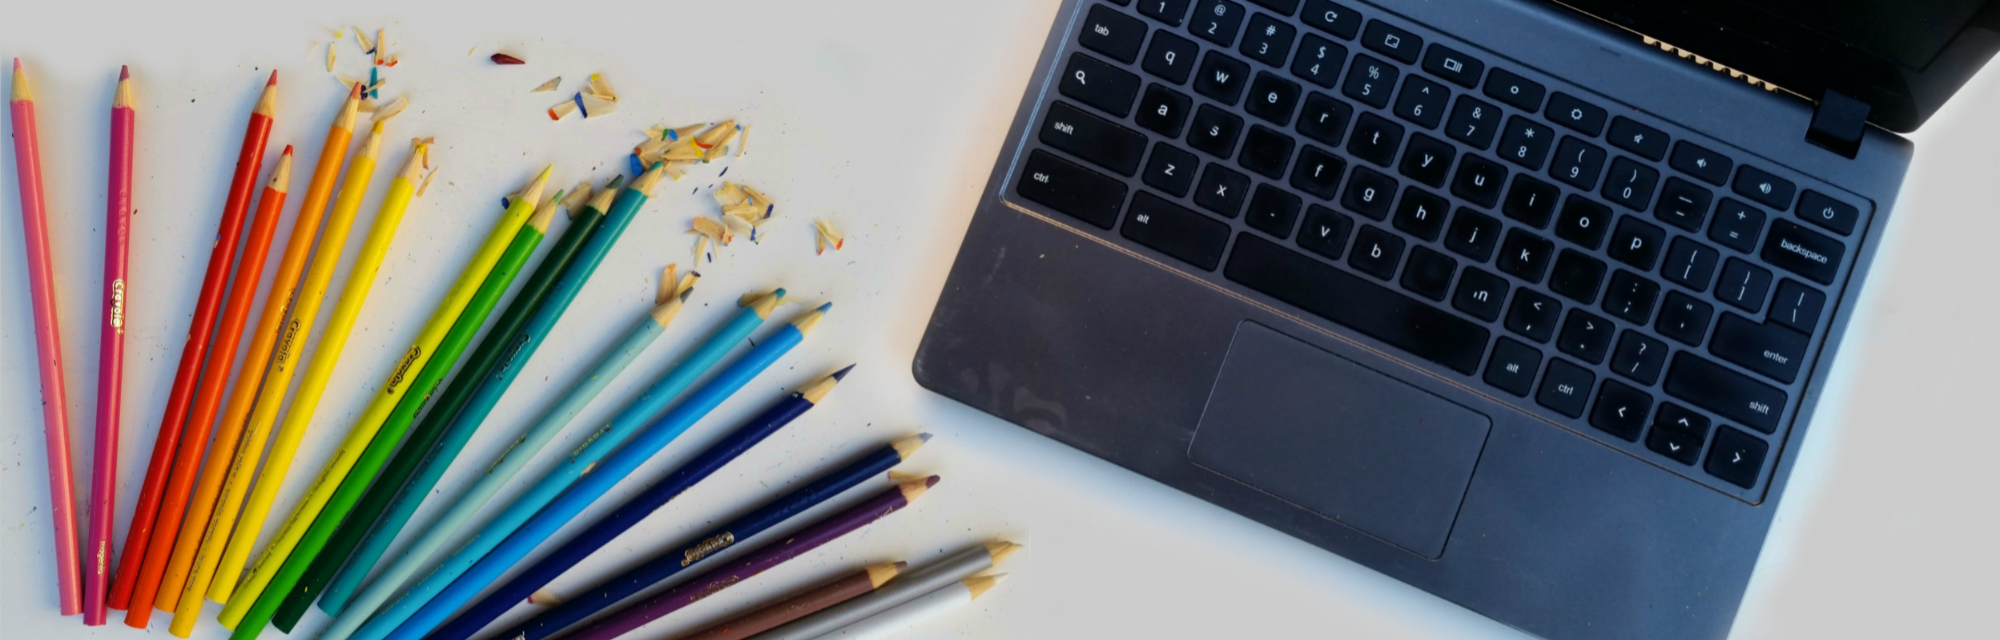
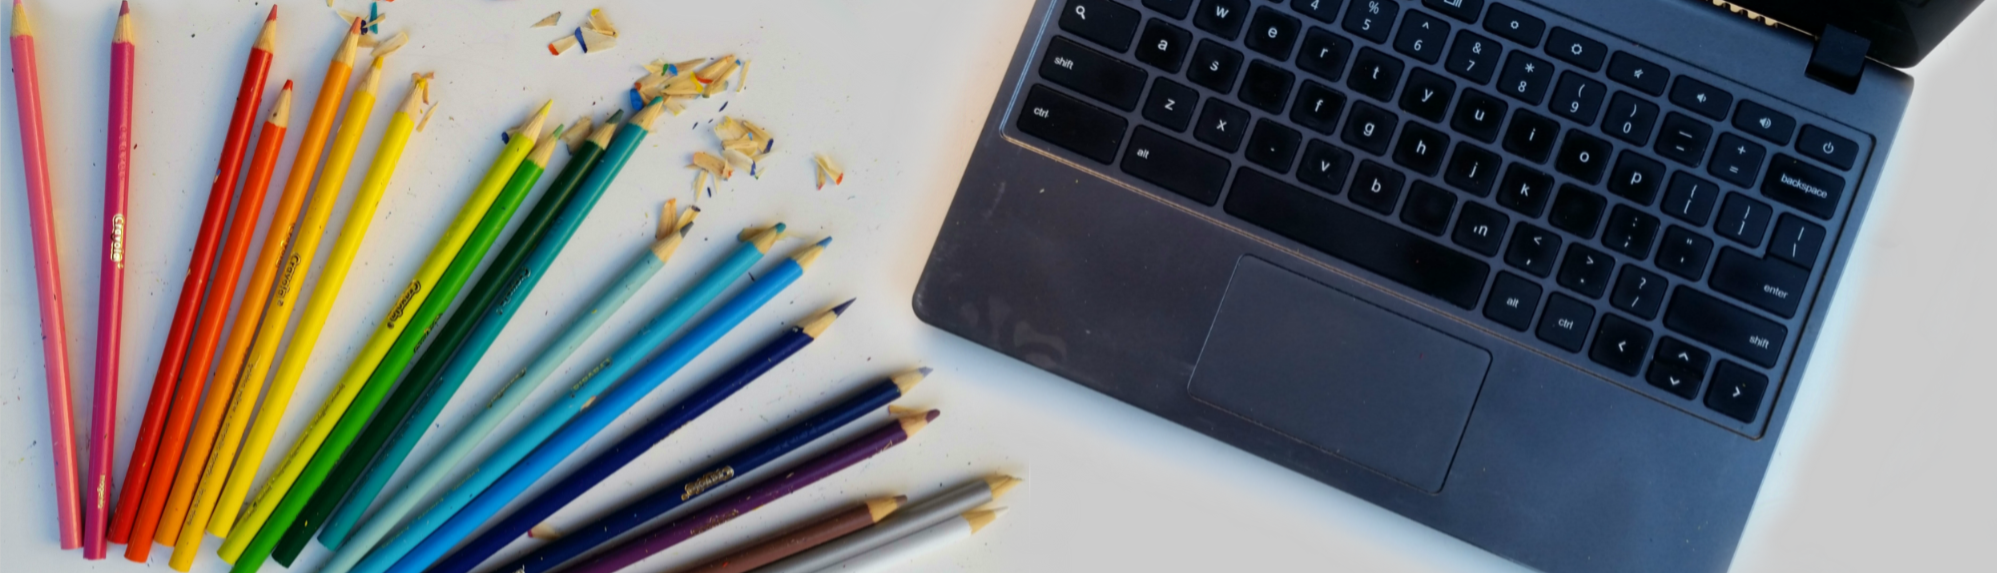
updated site files

diff --git a/_site/css/main.css b/_site/css/main.css
@@ -1,1 +1,1 @@
-@import url(vendor/bootstrap.min.css);body{overflow-x:hidden;font-family:'Roboto Slab', 'Helvetica Neue', Helvetica, Arial, sans-serif;color:#333;webkit-tap-highlight-color:#fed136}.bg-light-gray{background-color:#f7f7f7}.bg-darkest-gray{background-color:#222}.bg-primary{background-color:#fed136}.text-muted{color:#777}.text-primary{color:#fed136}p{font-size:14px;line-height:1.75}p.large{font-size:16px}a,a:hover,a:focus,a:active,a.active{outline:0}a{color:#fed136}a:hover,a:focus,a:active,a.active{color:#fec503}h1,h2,h3,h4,h5,h6{text-transform:uppercase;font-family:Montserrat,"Helvetica Neue",Helvetica,Arial,sans-serif;font-weight:700}.default-content{padding:5% 5%}.img-centered{margin:0 auto}::-moz-selection{text-shadow:none;background:#fed136}::selection{text-shadow:none;background:#fed136}img::selection{background:0 0}img::-moz-selection{background:0 0}.btn-primary{border-color:#fed136;text-transform:uppercase;font-family:Montserrat,"Helvetica Neue",Helvetica,Arial,sans-serif;font-weight:700;color:#fff;background-color:#fed136}.btn-primary:hover,.btn-primary:focus,.btn-primary:active,.btn-primary.active,.open .dropdown-toggle.btn-primary{border-color:#fed136;color:#fff;background-color:#fec503}.btn-primary:active,.btn-primary.active,.open .dropdown-toggle.btn-primary{background-image:none}.btn-primary.disabled,.btn-primary[disabled],fieldset[disabled] .btn-primary,.btn-primary.disabled:hover,.btn-primary[disabled]:hover,fieldset[disabled] .btn-primary:hover,.btn-primary.disabled:focus,.btn-primary[disabled]:focus,fieldset[disabled] .btn-primary:focus,.btn-primary.disabled:active,.btn-primary[disabled]:active,fieldset[disabled] .btn-primary:active,.btn-primary.disabled.active,.btn-primary[disabled].active,fieldset[disabled] .btn-primary.active{border-color:#fed136;background-color:#fed136}.btn-primary .badge{color:#fed136;background-color:#fff}.btn-xl{padding:20px 40px;border-color:#fed136;border-radius:3px;text-transform:uppercase;font-family:Montserrat,"Helvetica Neue",Helvetica,Arial,sans-serif;font-size:18px;font-weight:700;color:#fff;background-color:#fed136}.btn-xl:hover,.btn-xl:focus,.btn-xl:active,.btn-xl.active,.open .dropdown-toggle.btn-xl{border-color:#fed136;color:#fff;background-color:#fec503}.btn-xl:active,.btn-xl.active,.open .dropdown-toggle.btn-xl{background-image:none}.btn-xl.disabled,.btn-xl[disabled],fieldset[disabled] .btn-xl,.btn-xl.disabled:hover,.btn-xl[disabled]:hover,fieldset[disabled] .btn-xl:hover,.btn-xl.disabled:focus,.btn-xl[disabled]:focus,fieldset[disabled] .btn-xl:focus,.btn-xl.disabled:active,.btn-xl[disabled]:active,fieldset[disabled] .btn-xl:active,.btn-xl.disabled.active,.btn-xl[disabled].active,fieldset[disabled] .btn-xl.active{border-color:#fed136;background-color:#fed136}.btn-xl .badge{color:#fed136;background-color:#fff}.navbar-default{border-color:transparent;background-color:#222}.navbar-default .navbar-brand{font-family:"Kaushan Script","Helvetica Neue",Helvetica,Arial,cursive;color:#fff}.navbar-default .navbar-brand:hover,.navbar-default .navbar-brand:focus,.navbar-default .navbar-brand:active,.navbar-default .navbar-brand.active{color:#fec503}.navbar-default .navbar-collapse{border-color:rgba(255,255,255,0.02)}.navbar-default .navbar-toggle{border-color:#fed136;background-color:#fed136}.navbar-default .navbar-toggle .icon-bar{background-color:#fff}.navbar-default .navbar-toggle:hover,.navbar-default .navbar-toggle:focus{background-color:#fed136}.navbar-default .nav li a{text-transform:uppercase;font-family:Montserrat,"Helvetica Neue",Helvetica,Arial,sans-serif;font-weight:400;letter-spacing:1px;color:#fff;-webkit-transition:all ease .35s;-moz-transition:all ease .35s;transition:all ease .35s}.navbar-default .nav li a:hover,.navbar-default .nav li a:focus{outline:0;color:#fed136}.navbar-default .navbar-nav>.active>a{border-radius:0;color:#fff;background-color:#fed136}.navbar-default .navbar-nav>.active>a:hover,.navbar-default .navbar-nav>.active>a:focus{color:#fff;background-color:#fec503}@media (min-width: 768px){.navbar-default{padding:25px 0;border:0;background-color:transparent;-webkit-transition:padding .3s;-moz-transition:padding .3s;transition:padding .3s}.navbar-default .navbar-brand{font-size:2em;-webkit-transition:all .3s;-moz-transition:all .3s;transition:all .3s}.navbar-default .navbar-nav>.active>a{border-radius:3px}.navbar-default.navbar-shrink{padding:10px 0;background-color:#222}.navbar-default.navbar-shrink .navbar-brand{font-size:1.5em}}section{padding:4% 0}section .section-heading{padding:0px;font-size:4rem}section h3.section-subheading{margin-bottom:75px;text-transform:none;font-family:"Droid Serif","Helvetica Neue",Helvetica,Arial,sans-serif;font-size:16px;font-style:italic;font-weight:400}@media (min-width: 768px){section{padding:5% 0}section .section-heading{font-size:3rem}}.service-heading{margin:15px 0;text-transform:none}.regular-page .navbar-default .navbar-brand:hover,.regular-page .navbar-default .navbar-brand:focus,.regular-page .navbar-default .navbar-brand:active,.regular-page .navbar-default .navbar-brand.active{border-radius:5px;color:#fff;background-color:#fed136}.regular-page .navbar-default .nav li a:hover,.regular-page .navbar-default .nav li a:focus{border-radius:3px;color:#fff;background-color:#fed136}@media (min-width: 768px){.regular-page .navbar-default{padding:15px 0;background:#222}}.post-main-header{background-image:url("/img/front/pencils-laptop-narrow-sm.png");background-repeat:no-repeat;background-position:center center;background-attachment:scroll;-webkit-background-size:100% auto;-moz-background-size:100% auto;background-size:100% auto;-o-background-size:100% auto;border-radius:5px;padding:1%;margin:0px 5%;margin-top:60px;text-align:center;color:white}.post .section-heading{text-align:center;font-size:3.5rem;padding:10px}.post .meta{color:#cd9f01;font-size:2.5rem;letter-spacing:0.1em;margin-bottom:20px;text-transform:uppercase}.post .content{font-family:"Droid Serif","Helvetica Neue",Helvetica,Arial,sans-serif;color:#333;font-size:3rem;padding:5%}.post p{font-size:2rem}.post a{color:#fed136}.post a:hover{text-decoration:none;color:#cd9f01}@media (min-width: 900px){.post header{background-image:url("/img/posts/post-header-sm.png");background-position:center center;border-radius:5px;margin:0 10%;margin-top:60px;margin-bottom:1%}.post .section-heading{padding-top:10px}.post .meta{padding-bottom:20px}.post .content{padding:0px 10%}.post p{font-size:1.8rem;font-weight:normal}}.header-front{background-image:url("/img/front/pencils-laptop-narrow-sm.png");background-repeat:no-repeat;background-position:center top;background-attachment:scroll;-webkit-background-size:100% auto;-moz-background-size:100% auto;background-size:100% auto;-o-background-size:100% auto;margin-top:60px}.header-front:before{content:'';display:block;padding-top:75%}.header-front .header-padding{position:absolute;top:0;left:0;bottom:0;right:0}@media (min-width: 768px){.header-front{background-image:url("/img/front/pencils-laptop-thinner.png");margin-top:0px}.header-front:before{padding-top:32%}}#about{padding-top:3%}#about .section-heading{font-family:"Kaushan Script","Helvetica Neue",Helvetica,Arial,cursive;font-size:4rem}#about .main-text{padding-top:2%}#about .main-text p{font-family:serif;font-size:2.4rem;line-height:1.2}@media (min-width: 768px){#about{padding-top:60px}}.icon-aqua{color:#05b9d2}.tech-icon:hover .icon-aqua{color:#fed136}#portfolio .portfolio-item{right:0;margin:0 0 15px}#portfolio .portfolio-item .portfolio-link{display:block;position:relative;margin:0 auto;max-width:400px}#portfolio .portfolio-item .portfolio-link .portfolio-hover{position:absolute;width:100%;height:100%;opacity:0;-webkit-transition:all ease .5s;-moz-transition:all ease .5s;transition:all ease .5s;background:rgba(254,209,54,0.9)}#portfolio .portfolio-item .portfolio-link .portfolio-hover:hover{opacity:1}#portfolio .portfolio-item .portfolio-link .portfolio-hover .portfolio-hover-content{position:absolute;top:50%;width:100%;height:20px;margin-top:-12px;text-align:center;font-size:20px;color:#fff}#portfolio .portfolio-item .portfolio-link .portfolio-hover .portfolio-hover-content i{margin-top:-12px}#portfolio .portfolio-item .portfolio-link .portfolio-hover .portfolio-hover-content h3,#portfolio .portfolio-item .portfolio-link .portfolio-hover .portfolio-hover-content h4{margin:0}#portfolio .portfolio-item .portfolio-caption{margin:0 auto;padding:25px;max-width:400px;text-align:center;background-color:#fff}#portfolio .portfolio-item .portfolio-caption h4{margin:0;text-transform:none}#portfolio .portfolio-item .portfolio-caption p{margin:0;font-family:"Droid Serif","Helvetica Neue",Helvetica,Arial,sans-serif;font-size:16px;font-style:italic}#portfolio *{z-index:2}@media (min-width: 767px){#portfolio .portfolio-item{margin:0 0 30px}}.portfolio-modal{position:absolulte;top:15%;left:12%;right:12%;height:75%;width:76%;padding:5%;border-radius:5px;background-clip:border-box;-webkit-box-shadow:none;box-shadow:none;background-color:rgba(255,255,255,0.8)}.portfolio-modal .main-img{border-radius:5px}.portfolio-modal h2{font-size:3rem;text-align:center;margin-bottom:15px}.portfolio-modal h2 a:hover{text-decoration:none;color:#cd9f01;cursor:pointer}.portfolio-modal .project-description{text-align:center;font-family:"Droid Serif","Helvetica Neue",Helvetica,Arial,sans-serif;font-size:2rem;font-style:italic;margin:20px 0 30px}.portfolio-modal .project-details{text-align:center;margin-top:3%;margin-bottom:0%}.portfolio-modal .project-detail-label{font-size:1.7rem;padding:1%}.portfolio-modal .project-detail-item{font-weight:bold;font-size:2rem;padding:1%}.portfolio-modal .btn{align:right;margin-top:2%;margin-bottom:0%}.portfolio-modal .close-modal{color:#fed136;font-family:sans-serif;font-size:4rem;position:absolute;top:3%;right:3%;cursor:pointer}.portfolio-modal .close-modal:hover{color:#cd9f01}::-webkit-scrollbar{display:none}section#blog{padding:5%;padding-top:2%}.posts .section-heading{font-size:4rem}.posts-header{text-align:center;color:#fed136}.posts h2{padding:10px;text-align:center}.posts a:hover{text-decoration:none;color:#cd9f01}.posts .post-teaser{padding:15px 20%;width:100%;margin:0;display:inline-block;background-size:cover}.posts .post-teaser p a:hover{text-decoration:none;color:#cd9f01}.posts .excerpt{margin-top:1em}.posts .meta{color:#cd9f01;font-size:0.9em;letter-spacing:0.1em;margin:0;text-transform:uppercase}@media (max-width: 1000px){.posts .post-teaser{padding:2% 13%}}#contact{background-color:#222;background-image:url("/img/front/map.png");background-position:center;background-repeat:no-repeat;padding:5%}#contact .section-heading{color:#fff;font-size:4rem}#contact .contact-text{color:#fff;font-size:1.7rem;padding-bottom:2%}#contact .social{padding-bottom:5%}#contact .social-buttons-lg a{color:#fff;font-size:20px;-webkit-transition:all .3s;-moz-transition:all .3s;transition:all .3s;padding:10px;margin-bottom:20px}#contact .social-buttons-lg a:hover,#contact .social-buttons-lg a:focus,#contact .social-buttons-lg a:active{color:#fed136}footer{padding:25px 0;text-align:center}footer span.copyright{text-transform:uppercase;text-transform:none;font-family:Montserrat,"Helvetica Neue",Helvetica,Arial,sans-serif;line-height:40px}footer ul.quicklinks{margin-bottom:0;text-transform:uppercase;text-transform:none;font-family:Montserrat,"Helvetica Neue",Helvetica,Arial,sans-serif;line-height:40px}.social-buttons{margin-bottom:0}.social-buttons a{display:block;width:40px;height:40px;border-radius:100%;font-size:20px;line-height:40px;outline:0;color:#fff;background-color:#222;-webkit-transition:all .3s;-moz-transition:all .3s;transition:all .3s}.social-buttons a:hover,.social-buttons a:focus,.social-buttons a:active{background-color:#fed136}.btn:focus,.btn:active,.btn.active,.btn:active:focus{outline:0}
+@import url(vendor/bootstrap.min.css);body{overflow-x:hidden;font-family:'Roboto Slab', 'Helvetica Neue', Helvetica, Arial, sans-serif;color:#333;webkit-tap-highlight-color:#fed136}.bg-light-gray{background-color:#f7f7f7}.bg-darkest-gray{background-color:#222}.bg-primary{background-color:#fed136}.text-muted{color:#777}.text-primary{color:#fed136}p{font-size:14px;line-height:1.75}p.large{font-size:16px}a,a:hover,a:focus,a:active,a.active{outline:0}a{color:#fed136}a:hover,a:focus,a:active,a.active{color:#fec503}h1,h2,h3,h4,h5,h6{text-transform:uppercase;font-family:Montserrat,"Helvetica Neue",Helvetica,Arial,sans-serif;font-weight:700}.default-content{padding:5% 5%}.img-centered{margin:0 auto}::-moz-selection{text-shadow:none;background:#fed136}::selection{text-shadow:none;background:#fed136}img::selection{background:0 0}img::-moz-selection{background:0 0}.btn-primary{border-color:#fed136;text-transform:uppercase;font-family:Montserrat,"Helvetica Neue",Helvetica,Arial,sans-serif;font-weight:700;color:#fff;background-color:#fed136}.btn-primary:hover,.btn-primary:focus,.btn-primary:active,.btn-primary.active,.open .dropdown-toggle.btn-primary{border-color:#fed136;color:#fff;background-color:#fec503}.btn-primary:active,.btn-primary.active,.open .dropdown-toggle.btn-primary{background-image:none}.btn-primary.disabled,.btn-primary[disabled],fieldset[disabled] .btn-primary,.btn-primary.disabled:hover,.btn-primary[disabled]:hover,fieldset[disabled] .btn-primary:hover,.btn-primary.disabled:focus,.btn-primary[disabled]:focus,fieldset[disabled] .btn-primary:focus,.btn-primary.disabled:active,.btn-primary[disabled]:active,fieldset[disabled] .btn-primary:active,.btn-primary.disabled.active,.btn-primary[disabled].active,fieldset[disabled] .btn-primary.active{border-color:#fed136;background-color:#fed136}.btn-primary .badge{color:#fed136;background-color:#fff}.btn-xl{padding:20px 40px;border-color:#fed136;border-radius:3px;text-transform:uppercase;font-family:Montserrat,"Helvetica Neue",Helvetica,Arial,sans-serif;font-size:18px;font-weight:700;color:#fff;background-color:#fed136}.btn-xl:hover,.btn-xl:focus,.btn-xl:active,.btn-xl.active,.open .dropdown-toggle.btn-xl{border-color:#fed136;color:#fff;background-color:#fec503}.btn-xl:active,.btn-xl.active,.open .dropdown-toggle.btn-xl{background-image:none}.btn-xl.disabled,.btn-xl[disabled],fieldset[disabled] .btn-xl,.btn-xl.disabled:hover,.btn-xl[disabled]:hover,fieldset[disabled] .btn-xl:hover,.btn-xl.disabled:focus,.btn-xl[disabled]:focus,fieldset[disabled] .btn-xl:focus,.btn-xl.disabled:active,.btn-xl[disabled]:active,fieldset[disabled] .btn-xl:active,.btn-xl.disabled.active,.btn-xl[disabled].active,fieldset[disabled] .btn-xl.active{border-color:#fed136;background-color:#fed136}.btn-xl .badge{color:#fed136;background-color:#fff}.navbar-default{border-color:transparent;background-color:#222}.navbar-default .navbar-brand{font-family:"Kaushan Script","Helvetica Neue",Helvetica,Arial,cursive;color:#fff}.navbar-default .navbar-brand:hover,.navbar-default .navbar-brand:focus,.navbar-default .navbar-brand:active,.navbar-default .navbar-brand.active{color:#fec503}.navbar-default .navbar-collapse{border-color:rgba(255,255,255,0.02)}.navbar-default .navbar-toggle{border-color:#fed136;background-color:#fed136}.navbar-default .navbar-toggle .icon-bar{background-color:#fff}.navbar-default .navbar-toggle:hover,.navbar-default .navbar-toggle:focus{background-color:#fed136}.navbar-default .nav li a{text-transform:uppercase;font-family:Montserrat,"Helvetica Neue",Helvetica,Arial,sans-serif;font-weight:400;letter-spacing:1px;color:#fff;-webkit-transition:all ease .35s;-moz-transition:all ease .35s;transition:all ease .35s}.navbar-default .nav li a:hover,.navbar-default .nav li a:focus{outline:0;color:#fed136}.navbar-default .navbar-nav>.active>a{border-radius:0;color:#fff;background-color:#fed136}.navbar-default .navbar-nav>.active>a:hover,.navbar-default .navbar-nav>.active>a:focus{color:#fff;background-color:#fec503}@media (min-width: 768px){.navbar-default{padding:25px 0;border:0;background-color:transparent;-webkit-transition:padding .3s;-moz-transition:padding .3s;transition:padding .3s}.navbar-default .navbar-brand{font-size:2em;-webkit-transition:all .3s;-moz-transition:all .3s;transition:all .3s}.navbar-default .navbar-nav>.active>a{border-radius:3px}.navbar-default.navbar-shrink{padding:10px 0;background-color:#222}.navbar-default.navbar-shrink .navbar-brand{font-size:1.5em}}section{padding:4% 0}section .section-heading{padding:0px;font-size:4rem}section h3.section-subheading{margin-bottom:75px;text-transform:none;font-family:"Droid Serif","Helvetica Neue",Helvetica,Arial,sans-serif;font-size:16px;font-style:italic;font-weight:400}@media (min-width: 768px){section{padding:5% 0}section .section-heading{font-size:3rem}}.service-heading{margin:15px 0;text-transform:none}.regular-page .navbar-default .navbar-brand:hover,.regular-page .navbar-default .navbar-brand:focus,.regular-page .navbar-default .navbar-brand:active,.regular-page .navbar-default .navbar-brand.active{border-radius:5px;color:#fff;background-color:#fed136}.regular-page .navbar-default .nav li a:hover,.regular-page .navbar-default .nav li a:focus{border-radius:3px;color:#fff;background-color:#fed136}@media (min-width: 768px){.regular-page .navbar-default{padding:15px 0;background:#222}}.post-main-header{background-image:url("/img/front/pencils-laptop-narrow-sm.png");background-repeat:no-repeat;background-position:center center;background-attachment:scroll;-webkit-background-size:100% auto;-moz-background-size:100% auto;background-size:100% auto;-o-background-size:100% auto;border-radius:5px;padding:1%;margin:0px 5%;margin-top:60px;text-align:center;color:white}.post .section-heading{text-align:center;font-size:3.5rem;padding:10px}.post .meta{color:#cd9f01;font-size:2.5rem;letter-spacing:0.1em;margin-bottom:20px;text-transform:uppercase}.post .content{font-family:"Droid Serif","Helvetica Neue",Helvetica,Arial,sans-serif;color:#333;font-size:3rem;padding:5%}.post p{font-size:2rem}.post a{color:#fed136}.post a:hover{text-decoration:none;color:#cd9f01}@media (min-width: 900px){.post header{background-image:url("/img/posts/post-header-sm.png");background-position:center center;border-radius:5px;margin:0 10%;margin-top:60px;margin-bottom:1%}.post .section-heading{padding-top:10px}.post .meta{padding-bottom:20px}.post .content{padding:0px 10%}.post p{font-size:1.8rem;font-weight:normal}}.header-front{background-image:url("/img/front/pencils-laptop-narrow-sm.png");background-repeat:no-repeat;background-position:center top;background-attachment:scroll;-webkit-background-size:100% auto;-moz-background-size:100% auto;background-size:100% auto;-o-background-size:100% auto;margin-top:60px}.header-front:before{content:'';display:block;padding-top:75%}.header-front .header-padding{position:absolute;top:0;left:0;bottom:0;right:0}@media (min-width: 768px){.header-front{background-image:url("/img/front/pencils-laptop-thin.png");margin-top:0px}.header-front:before{padding-top:32%}}#about{padding-top:3%}#about .section-heading{font-family:"Kaushan Script","Helvetica Neue",Helvetica,Arial,cursive;font-size:4rem}#about .main-text{padding-top:2%}#about .main-text p{font-family:serif;font-size:2.4rem;line-height:1.2}@media (min-width: 768px){#about{padding-top:50px}}.icon-aqua{color:#05b9d2}.tech-icon:hover .icon-aqua{color:#fed136}#portfolio .portfolio-item{right:0;margin:0 0 15px}#portfolio .portfolio-item .portfolio-link{display:block;position:relative;margin:0 auto;max-width:400px}#portfolio .portfolio-item .portfolio-link .portfolio-hover{position:absolute;width:100%;height:100%;opacity:0;-webkit-transition:all ease .5s;-moz-transition:all ease .5s;transition:all ease .5s;background:rgba(254,209,54,0.9)}#portfolio .portfolio-item .portfolio-link .portfolio-hover:hover{opacity:1}#portfolio .portfolio-item .portfolio-link .portfolio-hover .portfolio-hover-content{position:absolute;top:50%;width:100%;height:20px;margin-top:-12px;text-align:center;font-size:20px;color:#fff}#portfolio .portfolio-item .portfolio-link .portfolio-hover .portfolio-hover-content i{margin-top:-12px}#portfolio .portfolio-item .portfolio-link .portfolio-hover .portfolio-hover-content h3,#portfolio .portfolio-item .portfolio-link .portfolio-hover .portfolio-hover-content h4{margin:0}#portfolio .portfolio-item .portfolio-caption{margin:0 auto;padding:25px;max-width:400px;text-align:center;background-color:#fff}#portfolio .portfolio-item .portfolio-caption h4{margin:0;text-transform:none}#portfolio .portfolio-item .portfolio-caption p{margin:0;font-family:"Droid Serif","Helvetica Neue",Helvetica,Arial,sans-serif;font-size:16px;font-style:italic}#portfolio *{z-index:2}@media (min-width: 767px){#portfolio .portfolio-item{margin:0 0 30px}}.portfolio-modal{position:absolulte;top:15%;left:12%;right:12%;height:75%;width:76%;padding:5%;border-radius:5px;background-clip:border-box;-webkit-box-shadow:none;box-shadow:none;background-color:rgba(255,255,255,0.8)}.portfolio-modal .main-img{border-radius:5px}.portfolio-modal h2{font-size:3rem;text-align:center;margin-bottom:15px}.portfolio-modal h2 a:hover{text-decoration:none;color:#cd9f01;cursor:pointer}.portfolio-modal .project-description{text-align:center;font-family:"Droid Serif","Helvetica Neue",Helvetica,Arial,sans-serif;font-size:2rem;font-style:italic;margin:20px 0 30px}.portfolio-modal .project-details{text-align:center;margin-top:3%;margin-bottom:0%}.portfolio-modal .project-detail-label{font-size:1.7rem;padding:1%}.portfolio-modal .project-detail-item{font-weight:bold;font-size:2rem;padding:1%}.portfolio-modal .btn{align:right;margin-top:2%;margin-bottom:0%}.portfolio-modal .close-modal{color:#fed136;font-family:sans-serif;font-size:4rem;position:absolute;top:3%;right:3%;cursor:pointer}.portfolio-modal .close-modal:hover{color:#cd9f01}::-webkit-scrollbar{display:none}section#blog{padding:5%;padding-top:2%}.posts .section-heading{font-size:4rem;text-align:center}.posts a:hover{text-decoration:none;color:#cd9f01}.posts .post-teaser{display:inline-block;width:100%;padding:15px 20%;margin:0}.posts .posts-title{color:#fed136;font-size:2.5rem;text-align:center}.posts .meta{color:#cd9f01;text-transform:uppercase;font-size:2rem;letter-spacing:0.1em;text-align:center;margin:0}.posts .excerpt{font-size:2rem;margin-top:1em}@media (max-width: 1000px){.posts .post-teaser{padding:2% 13%}}#contact{background-color:#222;background-image:url("/img/front/map.png");background-position:center;background-repeat:no-repeat;padding:5%}#contact .section-heading{color:#fff;font-size:4rem}#contact .contact-text{color:#fff;font-size:1.7rem;padding-bottom:2%}#contact .social{padding-bottom:5%}#contact .social-buttons-lg a{color:#fff;font-size:20px;-webkit-transition:all .3s;-moz-transition:all .3s;transition:all .3s;padding:10px;margin-bottom:20px}#contact .social-buttons-lg a:hover,#contact .social-buttons-lg a:focus,#contact .social-buttons-lg a:active{color:#fed136}footer{padding:25px 0;text-align:center}footer span.copyright{text-transform:uppercase;text-transform:none;font-family:Montserrat,"Helvetica Neue",Helvetica,Arial,sans-serif;line-height:40px}footer ul.quicklinks{margin-bottom:0;text-transform:uppercase;text-transform:none;font-family:Montserrat,"Helvetica Neue",Helvetica,Arial,sans-serif;line-height:40px}.social-buttons{margin-bottom:0}.social-buttons a{display:block;width:40px;height:40px;border-radius:100%;font-size:20px;line-height:40px;outline:0;color:#fff;background-color:#222;-webkit-transition:all .3s;-moz-transition:all .3s;transition:all .3s}.social-buttons a:hover,.social-buttons a:focus,.social-buttons a:active{background-color:#fed136}.btn:focus,.btn:active,.btn.active,.btn:active:focus{outline:0}

diff --git a/_site/index.html b/_site/index.html
@@ -326,7 +326,7 @@
     
     <div class="post-teaser">
       <div class="posts-header">
-        <h4><a class="post-link" href="/2017/12/09/a-little-about-me/">A Little About Me</a></h4>
+        <h4 class="posts-title"><a href="/2017/12/09/a-little-about-me/">A Little About Me</a></h4>
         <p class="meta">December 9, 2017</p>
       </div>
       <div class="excerpt">
@@ -520,7 +520,7 @@
         <div class="close-modal" data-dismiss="modal">x</div>
         <div class="modal-body">
             <h2><a href="https://github.com/jestann/tabletop">Tabletop</a></h2>
-            <div class="project-description">Tabletop is a desktop app with rainbow-colored good vibes. Built to access the Bloc Educational API. Students can send messages, submit projects, and view mentor schedules.</div>
+            <div class="project-description">Tabletop is a desktop app built to access the Bloc Educational API. Students can send messages, submit projects, and view mentor schedules.</div>
             <img src="img/portfolio/tabletop.png" class="main-img img-responsive" alt="Tabletop is a desktop app on Electron, NodeJS, and Javascript">
             <div class="project-details">
                 <div>
